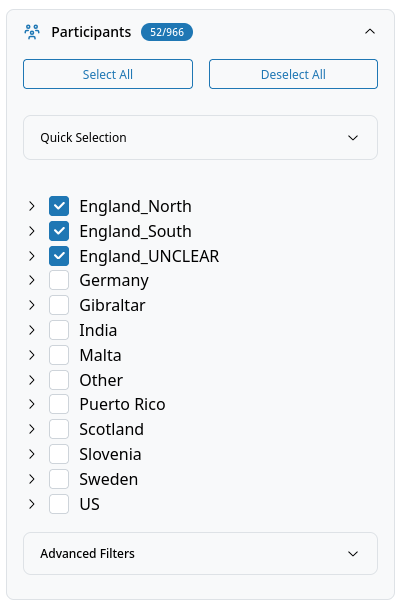
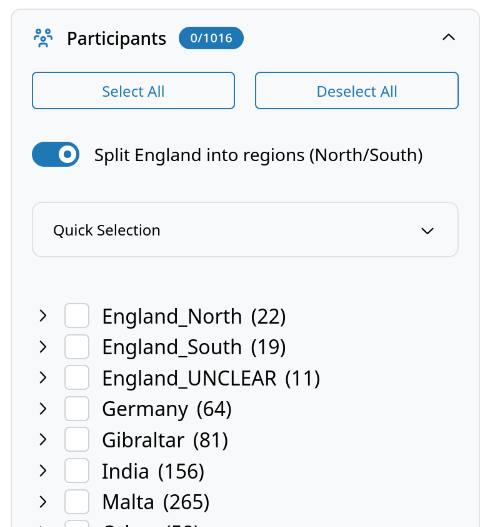
Updated documentation and citation info

diff --git a/pages/about.py b/pages/about.py
@@ -76,9 +76,8 @@ For more information, please visit the project homepage.
             # Dashboard Citation
             dmc.Stack([
                 dmc.Text("Dashboard Citation:", fw=600, size="sm"),
-                dmc.Text("The Dashboard will have its own DOI and OSF repo soon. For the time being, cite as follows:"),
                 dmc.Text(
-                    "Vetter, Fabian. 2025. BSLVC Dashboard (Version 0.1.2) [Software]. University of Bamberg. https://bslvc.eng-ling.uni-bamberg.de",
+                    "Vetter, Fabian. 2025. BSLVC Dashboard (Version 0.1.3). https://doi.org/10.17605/OSF.IO/4BUEF",
                 ),
                 
                 dmc.Space(h="md"),
@@ -87,7 +86,7 @@ For more information, please visit the project homepage.
                 dmc.Text("Data Set Citation:", fw=600, size="sm"),
                 dmc.Text("The BSLVC data set is currently unpublished. We expect to release the full data set in 2027 at the latest. Until then, please cite as follows:"),
                 dmc.Text(
-                    "Krug, Manfred, Fabian Vetter & Lukas Sönning. 2025. The Bamberg Survey of Language Variation and Change (Version 251118) [Data set]. University of Bamberg.",
+                    "Krug, Manfred, Fabian Vetter & Lukas Sönning. 2025. The Bamberg Survey of Language Variation and Change (Version 251118). University of Bamberg.",
                 ),
                 
                 dmc.Space(h="md"),

diff --git a/docs/documentation.md b/docs/documentation.md
@@ -130,6 +130,12 @@ Participants can be selected via the participant tree, either by clicking the ch
 
 ![Participant advanced selection](img/UI_participant_advanced.png)
 
+##### Advanced Regional Mapping
+
+The switch "Split England into regions (North/South")" controls whether participants from England should be divided into England_North, England_South and England_UNCLEAR.
+
+![Regional mapping activated](img/UI_regional_mapping.png)
+
 #### Grammar Item Selection
 All grammar items can be selected in the grammar items tree. They are first grouped by mode, then by feature group. Items can be either selected by clicking the checkboxes, by using presets or the buttons above the tree, or via the grammar items table in the main view. The getting started section in the app describes how the grammar items table can be used for custom item selections.
 
@@ -197,15 +203,6 @@ This is only available if mode is set to "Participant Similarity". These functio
 - **Paste Settings**: Paste settings from clipboard. This button takes the base64 code created with the "Copy Settings" function to restore settings.
 - **Save Settings**: Save current settings locally. Helpful for temporarily saving the settings.
 - **Restore Settings**: Restore previously saved settings with the "Save Settings" function.
-
-#### URL Parameters: Regional Mapping
-
-The dashboard currently supports one URL parameter for controlling regional mapping participants:
-- `regional_mapping=true`: When set to true, participants from England are divided into England_North, England_South and England_UNCLEAR.
-
-You can activate this function by adding `?regional_mapping=true` to the URL (e.g., open the grammar analysis module with the following URL: https://bslvc.eng-ling.uni-bamberg.de/grammar?regional_mapping=true)
-
-![Regional mapping activated](img/UI_regional_mapping.png)
 
 #### Custom Group Comparison
 

diff --git a/docs/index.md b/docs/index.md
@@ -23,17 +23,15 @@ For details on all available functions, see the [Documentation](documentation.md
 
 ## Quick Links
 
-- **[Documentation](documentation.md)**: Description of all available functions
-- **[Live Dashboard](https://bslvc.eng-ling.uni-bamberg.de)**: Access the application. As the BSLVC data is yet unpublished, the dashboard is in demo mode (i.e., access is password protected). If you need access to the dashboard, please contact Fabian Vetter.
+- **[Live Dashboard](https://bslvc.eng-ling.uni-bamberg.de)**: Access the application. As the BSLVC data is yet unpublished, the dashboard is in demo mode (i.e., access is password protected). If you require access to the dashboard, please contact Fabian Vetter.
 - **[Project Homepage](https://www.uni-bamberg.de/en/eng-ling/forschung/the-bslvc-project-dfg-funded/)**
 - **[Chair of English Linguistics @ University of Bamberg](https://uni-bamberg.de/en/eng-ling/)**
 
 
 ## Support
 
-- **Issues & Bug Reports**: [GitHub Issues](https://github.com/yourusername/bslvc-dashboard/issues)
-- **Project Homepage**: [BSLVC Project](https://www.uni-bamberg.de/en/eng-ling/forschung/the-bslvc-project-dfg-funded/)
-- **Contact**: [Chair of English Linguistics, University of Bamberg](https://www.uni-bamberg.de/en/eng-ling/)
+- **Issues & Bug Reports**: [GitHub Issues](https://github.com/vetterf/bslvc-dashboard/issues)
+- **Contact**: [Fabian Vetter @ Chair of English Linguistics](https://www.uni-bamberg.de/en/eng-ling/staff/fabian-vetter/))
 
 ## License
 
